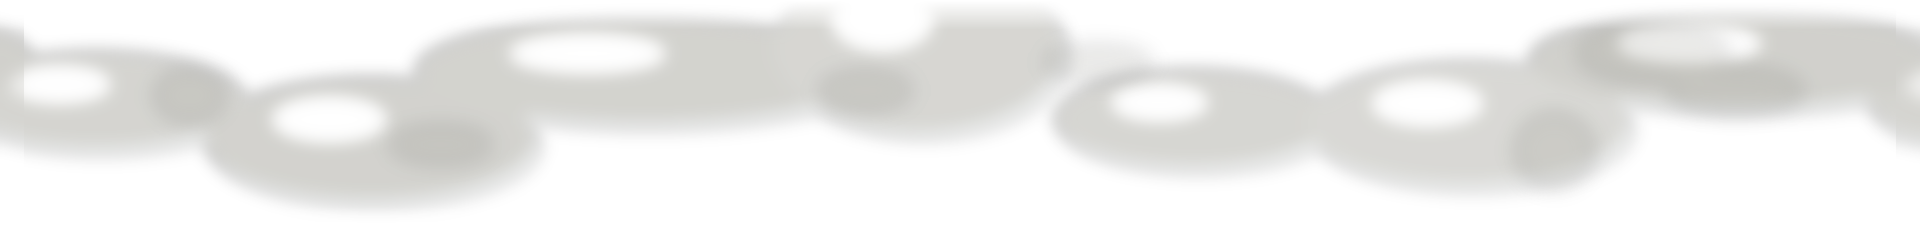
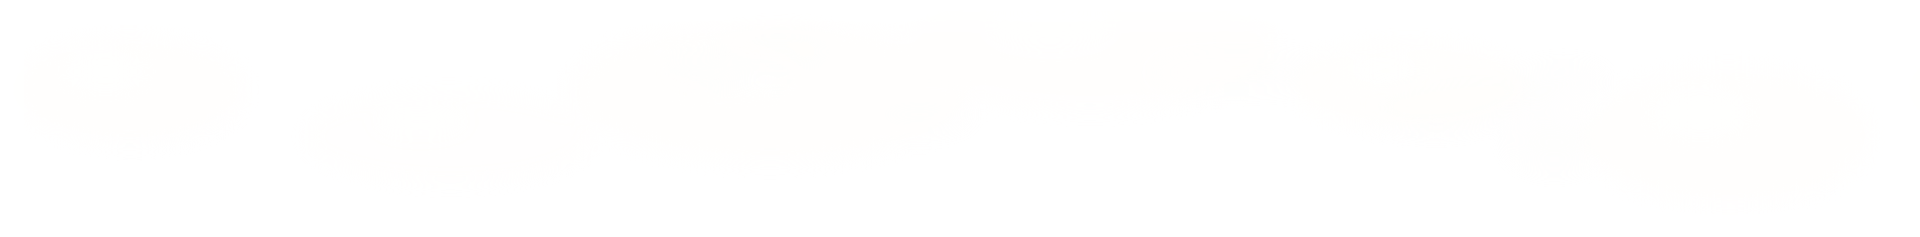
fix(REQ-005): make sunny cloud band a soft warm-white wash
User playtest: overcast OK, sunny looked like dirty gray smudges.
Rebake sunny PNG with premultiplied blur; brighten sunny modulate.

diff --git a/docs/architecture/sky-cloud-plan.md b/docs/architecture/sky-cloud-plan.md
@@ -1,6 +1,6 @@
 # REQ-005 / REQ-012 · 天空与云层表现方案
 
-- 状态：**B 层已发布**（晴/阴各一帧叠加云带）；火烧云、专属季节画和雨雪均未批准制作。
+- 状态：**B 层已发布**（晴/阴各一帧叠加云带；2026-10-03 按试玩反馈修正晴天暖白薄纱）；火烧云、专属季节画和雨雪均未批准制作。
 - 关联：REQ-20261002-005（天气/季节）、REQ-20261002-012（时段天空与反复观看）。
 - 运行时与云带 B Owner：`CURSOR-CONTRIBUTOR-LOCAL`；本次资源盘点：`CODEX-LEAD`
 - 日期：2026-10-02（方案）；2026-10-03（用户确认并开工 B）；2026-10-03（资源审计）
@@ -24,7 +24,7 @@
 | 层级 | 内容 | 技术 | 状态 / 成本估计 | 风险与门槛 |
 | --- | --- | --- | --- | --- |
 | A. 现有 | 晴/阴院子底图、昼夜叠色和假期日季节叠色 | 1920×1080 RGB 原画，运行时映射到 1280×720；TOD/季节为代码颜色层 | 已上线，无新增资源。晴天原 PNG 4,019,432 bytes，阴天 3,427,343 bytes | 季节只有色层，没有春/夏/秋/冬独立环境画；昼夜也没有独立天空原画 |
-| B. 云带叠加 | 晴/阴各一帧半透明水彩云带 | 1920×237 RGBA，双 Sprite 首尾平铺；低动效静止 | 已发布 `game-31316aa`（PR #81/#82）；两张源 PNG 共 429,085 bytes（晴 197,101 / 阴 231,984） | 已有构图与低动效核验，见[体验记录](../playtests/2026-10-03-REQ-005-cloud-band.md)；不是新待办 |
+| B. 云带叠加 | 晴/阴各一帧半透明水彩云带 | 1920×237 RGBA，双 Sprite 首尾平铺；低动效静止 | 已发布 `game-31316aa`（PR #81/#82）；晴天帧已按试玩反馈重烘焙为暖白薄纱（阴天帧保留） | 见[体验记录](../playtests/2026-10-03-REQ-005-cloud-band.md) |
 | C. 傍晚/火烧云候选 | 一种与晴/阴云层协调的暖色晚霞云形 | 先做单帧透明云带样张，复用 1920×237 锚点和既有层级 | 未批准；若产品选此方向，先试 1 张，源 PNG 体积暂以现有单张约 200–230 KB 为参考，最终以导入和 Web PCK 实测为准 | 需要产品先选“是否先看傍晚/火烧云”；颜色须避开全屏 TOD 滤色造成的过饱和，也不改变昼夜节奏 |
 | D. 季节辨识候选 | 为现有小院增加一个局部、可替换的季节标记（例如树/草的独立前景层） | 透明 Sprite/局部完整画层，保持原背景不动；先做一处样张，不复制整张院子 | 未批准；关键帧数量和包体随所选对象与季节再估，不预设四季整套 | 需产品选择先验证的季节/视觉对象；完整接出背景或硬抠静态背景物会破坏水彩层次 |
 | E. 雨/雪 | 可选的短循环水彩天气表现 | 透明绘画循环或受控粒子组合，需要额外天气状态、低动效路径和 Web 帧率检查 | 未批准；相较单帧云带为高成本项，制作/接入成本和实际 PCK 均待小样验证 | 需产品独立确认，不加入降温、作物损失、等待或离席惩罚 |
@@ -32,7 +32,7 @@
 ## 已有资源盘点（2026-10-03，issue #51）
 
 - `yard_sunny.png`：1920×1080 RGB，4,019,432 bytes；`yard_overcast.png`：1920×1080 RGB，3,427,343 bytes。现有两张底图已由天气代码切换，不能把改色副本当成新季节资源。
-- `cloud_band_sunny.png`：1920×237 RGBA，197,101 bytes；`cloud_band_overcast.png`：1920×237 RGBA，231,984 bytes。两条已在晴阴下实际接入；运行时复制两个 Sprite 用于无缝循环，不产生第二份源资源。
+- `cloud_band_sunny.png`：1920×237 RGBA，暖白薄纱（不采样蓝天，避免灰蓝脏斑）；`cloud_band_overcast.png`：1920×237 RGBA，阴天灰紫水彩。运行时双 Sprite 无缝循环；晴天 modulate 单独提亮。
 - 春、夏、仲夏末、秋由 `main.gd::_update_season_tint()` 对颜色层设定：第 1–2 日春、第 3–4 日夏、第 5–6 日仲夏末、第 7 日起秋；一天为 600 秒模拟。现有时间层按晨、正午、下午、傍晚和夜晚调整色调。当前没有专属季节植被图层、冬季或火烧云资源；两张底图本身已有金黄/橙色树叶和花草，因此额外季节图层须避免重复贴花。
 - 天气仍在晴/阴之间自然轮换；云带以 6.5 世界像素/秒缓移，低动效保持静止。REQ-012 的安静抬头镜头属于另一条观察设计，不和本资源需求合并。
 

diff --git a/docs/playtests/2026-10-03-REQ-005-cloud-band.md b/docs/playtests/2026-10-03-REQ-005-cloud-band.md
@@ -16,15 +16,22 @@
 ## 实现
 
 - 资源：`assets/holiday/environment/cloud_band_sunny.png`、`cloud_band_overcast.png`
-  - 自晴/阴院子天空色采样烘焙的半透明水彩云带，可横向平铺
+  - 阴天：自阴天天空色采样的半透明水彩云带
+  - 晴天（2026-10-03 修正）：暖白薄纱，不采样蓝天；预乘 alpha 模糊，避免脏灰芯
 - 运行时：`YardWorld` 双 Sprite 首尾相接缓移（`CLOUD_DRIFT_SPEED`）；`ui.reduced_motion` 时保持静止
-- 天气切换时云带帧与院子 modulate 同步；不改存档字段
+- 阴天云带跟院子滤色；晴天云带单独提亮 modulate；不改存档字段
+
+## 用户反馈与修正
+
+- 问题：晴天叠加云发灰、像脏斑；阴天尚可
+- 修正：重烘焙 `cloud_band_sunny.png` + 晴天 modulate 提亮；阴天帧保留
 
 ## 自动化覆盖
 
-- `test/ui_interaction_suite.gd`：晴/阴云带换帧；低动效静止；允许动效时滚动增加
+- `test/ui_interaction_suite.gd`：晴/阴云带换帧；晴天云带偏亮；低动效静止；允许动效时滚动增加
 
 ## 发布
 
-- 正式 Web：`game-31316aa`（Verify/publish 通过）
-- 公网抬头观云：建议切换晴/阴核对云带疏密与缓移；低动效下应为静止帧
+- 首发 Web：`game-31316aa`（Verify/publish 通过）
+- 晴天修正：合入后回填新 `game-<sha>`
+- 公网抬头观云：晴天应为轻柔暖白薄云，不再是灰蓝脏斑；阴天疏密与缓移仍可读；低动效下静止

diff --git a/docs/decisions.md b/docs/decisions.md
@@ -49,6 +49,7 @@
 - **2026-10-02（续）：** 首切片已发布 game-165c7d4 / PR #52。第二切片压缩 _update_season_tint：仲夏末约第 5–6 日、金秋约第 7 日起；不做新美术资源。
 
 - **2026-10-03：** 用户一次性确认：批准叠加云带 B；水彩笔触；缓移 + 低动效静止；暂缓雨雪。CURSOR-CONTRIBUTOR-LOCAL 实现晴/阴各一帧云带并接入 `YardWorld`。
+- **2026-10-03（晴天云带修正）：** 用户试玩反馈晴天叠加云发灰、像脏斑，阴天尚可。重烘焙晴天云带为暖白薄纱（预乘 alpha 模糊，避免透明黑染灰），运行时晴天云带单独提亮 modulate，不再跟院子暖滤色一起变脏；阴天帧不动。
 
 ### 2026-10-02 · REQ-009 第三处热点发布与台账恢复
 
